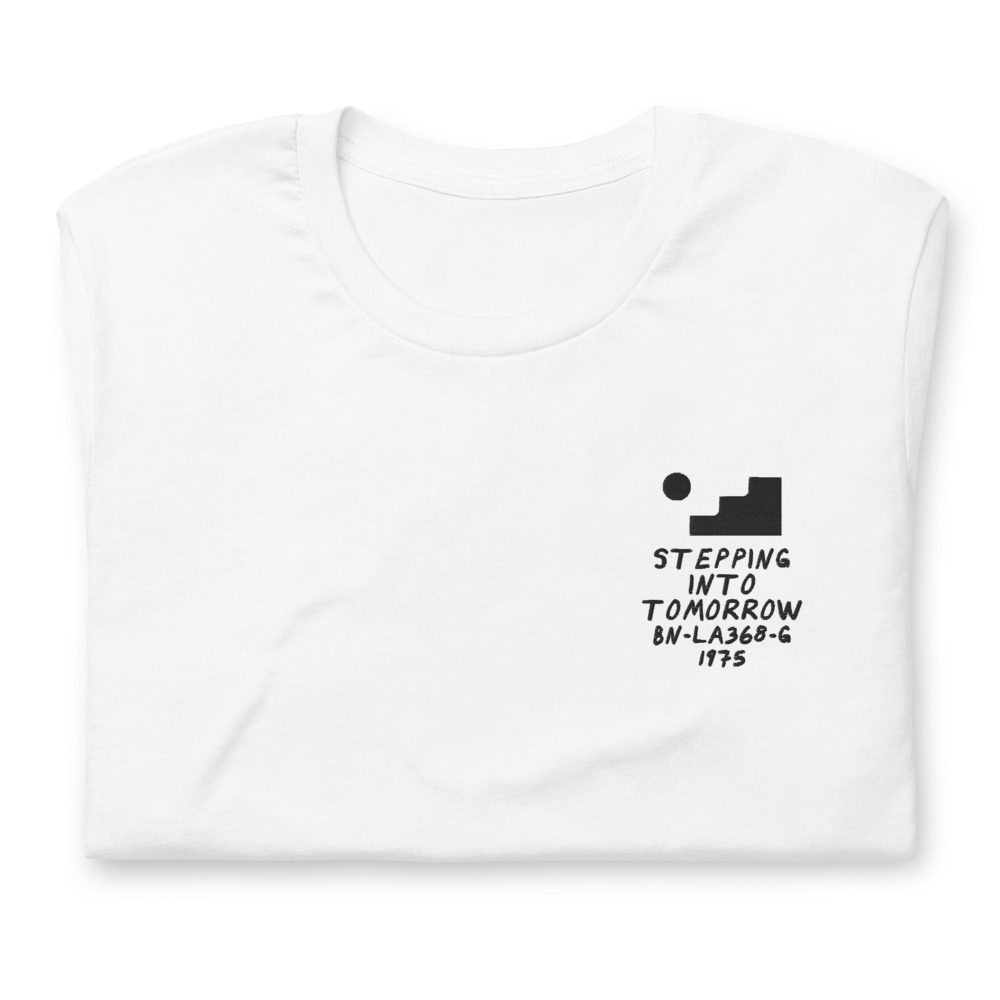
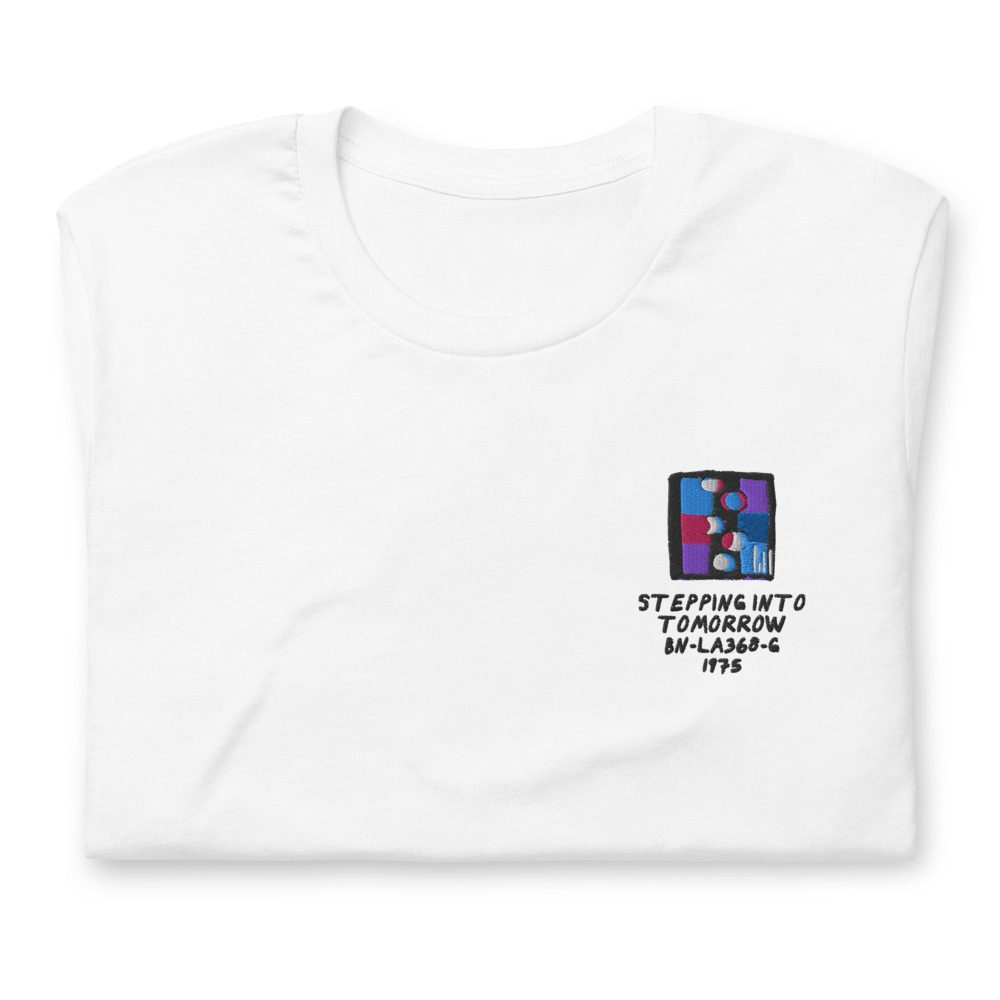
Deploy build from source 9b5f33b

Changed region(s): [[0.62, 0.465, 0.806, 0.682]]

diff --git a/about.html b/about.html
@@ -49,7 +49,7 @@
 <p>I’ve been chasing both ever since: that warm 5 o’clock hour, and records that hold together from side A to side B.</p>
 <h2>Some of what I play</h2>
 <p>Random picks, in no order. Ask me tomorrow and it’d be a different list.</p>
-<p class="picks">Dorothy Ashby, Volta Jazz, The Main Ingredient, Jessie Ware, Grace Jones, Herb Alpert, Syl Johnson, Carole King, LCD Soundsystem, NEL OLIVER, Azymuth, Trevor Dandy, Labi Siffre, Odyssey, Mina, Oby Onyioha, Evinha, Japanese Breakfast, Donna Summer, Unity &amp; The Downbeats, Leo’s Sunshipp, Dee Edwards, Doris Troy, Eurythmics, Pamoja, Miki Matsubara, Helene Smith, Marvin Gaye.<br>
+<p class="picks">Midnight Magic, Mon Laferte, Elis Regina, Letta Mbulu, Willie Wright, Sean Paul, Anemone, Nel Oliver, Tim Maia, Volta Jazz, Modjo, Richie Havens, Brick, Sly &amp; The Family Stone, Antena, Whitney Houston, Mary J. Blige, Oby Onyioha, Marvin Gaye, The Love Unlimited Orchestra, Purple Disco Machine, Say She She, Thee Sacred Souls, Milton Wright, Banda Black Rio, Deee-Lite, Bill Withers, George McCrae.<br>
 <span class="m">Shuffled <time datetime="2026-10-20">2026-10-20</time>.</span></p>
 <p>A few labels I dig through: Athens of the North, Numero Group, Salsoul, Awesome Tapes from Africa, Jazz Dispensary.</p>
 <h2>The shelf</h2>

diff --git a/shop/g-41.html b/shop/g-41.html
@@ -68,7 +68,7 @@
 <h1>Donald Byrd – Stepping Into Tomorrow</h1>
 <p class="m">LP · Blue Note BN-LA368-G · 1975<br>
 Ungraded, checked before it ships</p>
-<p class="m">Comes with its own shirt: a white tee embroidered on the chest with its title, catalog number and year in my handwriting. Pick a size at checkout. It’s made for you and ships on its own.</p>
+<p class="m">Comes with its own shirt: a white tee embroidered on the chest with my drawing of the cover over its title, catalog number and year. Pick a size at checkout. It’s made for you and ships on its own.</p>
 <p><img class="shirt-pic" src="img/g-41-shirt-folded.jpg" width="1000" height="1000" loading="lazy" alt="Its shirt, folded: a white tee with the record embroidered on the chest"></p>
 <p><img class="shirt-pic" src="img/g-41-shirt-wrinkled.jpg" width="1000" height="1000" loading="lazy" alt="Its shirt, wrinkled: a white tee with the record embroidered on the chest"></p>
 <p><a href="https://buy.stripe.com/5kQfZj0AS9HTcLI9qy9R61S">Buy</a> <span class="m">$128</span></p>
